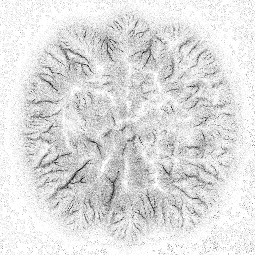
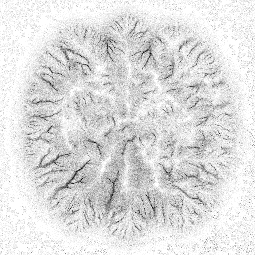
Modification OBJ broadleaf
Prise en charge plusieurs espèces d'arbres

diff --git a/Outerrain/Source/terrain.cpp b/Outerrain/Source/terrain.cpp
@@ -544,9 +544,12 @@ std::vector<Vector3> LayerTerrain2D::GetAllVertices() const
 
 /* VegetationTerrain */
 VegetationTerrain::VegetationTerrain(int nx, int ny, Vector2 bottomLeft, Vector2 topRight)
-	: Terrain2D(nx, ny, bottomLeft, topRight),
-	vegetationDensityField(nx, ny, bottomLeft, topRight)
+	: Terrain2D(nx, ny, bottomLeft, topRight)
 {
+	for (int k = 0; k < speciesNumber; k++)
+	{
+		vegetationDensityField.push_back(ScalarField2D(nx, ny, bottomLeft, topRight));
+	}
 }
 
 void VegetationTerrain::ComputeVegetationDensities()
@@ -555,15 +558,19 @@ void VegetationTerrain::ComputeVegetationDensities()
 	ScalarField2D wetnessField = WetnessField();
 	ScalarField2D streampowerField = StreamPowerField();
 	VegetationObject vegObj;
-	for (int i = 0; i < ny; i++)
+
+	for (int k = 0; k < speciesNumber; k++)
 	{
-		for (int j = 0; j < nx; j++)
+		for (int i = 0; i < ny; i++)
 		{
-			float height = heightField.Get(i, j);
-			float slope = slopeField.Get(i, j);
-			float wetness = wetnessField.Get(i, j);
-			float streampower = streampowerField.Get(i, j);
-			vegetationDensityField.Set(i, j, vegObj.ComputeDensityFactor(height, slope, wetness, streampower));
+			for (int j = 0; j < nx; j++)
+			{
+				float height = heightField.Get(i, j);
+				float slope = slopeField.Get(i, j);
+				float wetness = wetnessField.Get(i, j);
+				float streampower = streampowerField.Get(i, j);
+				vegetationDensityField[k].Set(i, j, vegObj.ComputeDensityFactor((Specie)k, height, slope, wetness, streampower));
+			}
 		}
 	}
 }
@@ -582,6 +589,7 @@ std::vector<GameObject*> VegetationTerrain::GetTreeObjects() const
 	int tileCountY = static_cast<int>(((topRight.y - bottomLeft.y) / tileSize + 1));
 
 	std::vector<GameObject*> vegObjects;
+
 	for (int i = 0; i < tileCountY; i++)
 	{
 		for (int j = 0; j < tileCountX; j++)
@@ -593,21 +601,26 @@ std::vector<GameObject*> VegetationTerrain::GetTreeObjects() const
 					+ Vector2(tileSize, 0) * static_cast<float>(j)
 					+ Vector2(0, tileSize) * static_cast<float>(i)
 					+ points[tile][x];
-				if (vegetationDensityField.IsInsideField(point) == true)
+
+				for (int k = 0; k < speciesNumber; k++)
 				{
-					float density = vegetationDensityField.GetValueBilinear(point);
-					float p = rand() / static_cast<float>(RAND_MAX);
-					if (p < density)
+					if (vegetationDensityField[k].IsInsideField(point) == true)
 					{
-						GameObject* vegObj = veg.GetGameObject();
-						Vector3 pos = Vector3(point.x, Height(point) + vegObj->GetScale().y / 2.0f, point.y);
-						vegObj->SetPosition(pos);
-						vegObjects.push_back(vegObj);
-						treeCount++;
+						float density = vegetationDensityField[k].GetValueBilinear(point);
+						float p = rand() / static_cast<float>(RAND_MAX);
+						if (p < density)
+						{
+							GameObject* vegObj = veg.GetGameObject((Specie)k);
+							Vector3 pos = Vector3(point.x, Height(point) + vegObj->GetScale().y / 2.0f, point.y);
+							vegObj->SetPosition(pos);
+							vegObjects.push_back(vegObj);
+							treeCount++;
+							break;
+						}
 					}
+					if (treeCount >= maxTreeCount)
+						return vegObjects;
 				}
-				if (treeCount >= maxTreeCount)
-					return vegObjects;
 			}
 		}
 	}
@@ -688,7 +701,7 @@ std::vector<std::vector<Vector2>> VegetationTerrain::GetRotatedRandomDistributio
 	return res;
 }
 
-ScalarField2D VegetationTerrain::VegetationDensityField() const
+ScalarField2D VegetationTerrain::VegetationDensityField(int k) const
 {
-	return vegetationDensityField;
+	return vegetationDensityField[k];
 }

diff --git a/Outerrain/Source/app.cpp b/Outerrain/Source/app.cpp
@@ -14,7 +14,8 @@ static GLuint draignageTexture;
 static GLuint wetnessTexture;
 static GLuint streampowerTexture;
 static GLuint accessibilityTexture;
-static GLuint vegetationDensityTexture;
+static GLuint vegetationPineDensityTexture;
+static GLuint vegetationBroadDensityTexture;
 
 static Vector2 minMaxSlope;
 static Vector2 minMaxDrainage;
@@ -125,7 +126,7 @@ int App::Render()
 	ImGui::Begin("Maps");
 	ImGui::SetNextWindowContentWidth(1000);
 	ImGui::BeginChild("", ImVec2(0, 190), false, ImGuiWindowFlags_HorizontalScrollbar);
-	ImGui::Columns(6);
+	ImGui::Columns(7);
 	ImGui::Text("Slope");
 	ImGui::Image(reinterpret_cast<ImTextureID>(slopeTexture), ImVec2(120, 120));
 	ImGui::Value("Black", minMaxSlope.x);
@@ -156,11 +157,17 @@ int App::Render()
 	ImGui::Value("White", minMaxAccessibility.y);
 	ImGui::SetColumnWidth(4, 135);
 	ImGui::NextColumn();
-	ImGui::Text("Plants Density");
-	ImGui::Image(reinterpret_cast<ImTextureID>(vegetationDensityTexture), ImVec2(120, 120));
+	ImGui::Text("Pine Density");
+	ImGui::Image(reinterpret_cast<ImTextureID>(vegetationPineDensityTexture), ImVec2(120, 120));
 	ImGui::Value("Black", minMaxVegetationDensity.x);
 	ImGui::Value("White", minMaxVegetationDensity.y);
 	ImGui::SetColumnWidth(5, 135);
+	ImGui::NextColumn();
+	ImGui::Text("Broadleaf Density");
+	ImGui::Image(reinterpret_cast<ImTextureID>(vegetationBroadDensityTexture), ImVec2(120, 120));
+	ImGui::Value("Black", minMaxVegetationDensity.x);
+	ImGui::Value("White", minMaxVegetationDensity.y);
+	ImGui::SetColumnWidth(6, 135);
 	ImGui::Columns(1);
 	ImGui::EndChild();
 	ImGui::End();
@@ -362,7 +369,12 @@ void App::CalculateAllMaps()
 	field.WriteImageGrayscale("Data/Maps/accessibility.png");
 	minMaxAccessibility = Vector2(field.MinValue(), field.MaxValue());
 
-	field = vegTerrain.VegetationDensityField();
+	field = vegTerrain.VegetationDensityField(0);
+	field.WriteImageGrayscale("Data/Maps/vegetationPineDensity.png");
+	minMaxVegetationDensity = Vector2(field.MinValue(), field.MaxValue());
+
+	field = vegTerrain.VegetationDensityField(0);
+	field.WriteImageGrayscale("Data/Maps/vegetationBroadDensity.png");
 	minMaxVegetationDensity = Vector2(field.MinValue(), field.MaxValue());
 
 	slopeTexture = ReadTexture(0, "Data/Maps/slope.png", GL_RGB);
@@ -370,5 +382,6 @@ void App::CalculateAllMaps()
 	wetnessTexture = ReadTexture(0, "Data/Maps/wetness.png", GL_RGB);
 	streampowerTexture = ReadTexture(0, "Data/Maps/streamPower.png", GL_RGB);
 	accessibilityTexture = ReadTexture(0, "Data/Maps/accessibility.png", GL_RGB);
-	vegetationDensityTexture = ReadTexture(0, "Data/Maps/vegetationDensity.png", GL_RGB);
+	vegetationPineDensityTexture = ReadTexture(0, "Data/Maps/vegetationPineDensity.png", GL_RGB);
+	vegetationBroadDensityTexture = ReadTexture(0, "Data/Maps/vegetationBroadDensity.png", GL_RGB);
 }

diff --git a/Outerrain/Source/vegetationObject.cpp b/Outerrain/Source/vegetationObject.cpp
@@ -8,40 +8,50 @@ VegetationObject::VegetationObject()
 
 }
 
-GameObject* VegetationObject::GetGameObject()
+GameObject* VegetationObject::GetGameObject(Specie s)
 {
 	Mesh* m = new Mesh(GL_TRIANGLES);
-	m->ReadMesh("Data/Objs/pineTree.obj");
+	if (s == PineTree)
+		m->ReadMesh("Data/Objs/pineTree.obj");
+	else
+		m->ReadMesh("Data/Objs/broadleaf.obj");
 	Shader shader;
 	shader.InitFromFile("Shaders/Diffuse.glsl");
 	m->SetShader(shader);
 	m->SetMaterial(Material(Color::Green(), 0));
 	GameObject* obj = new GameObject();
 	obj->AddComponent(m);
-	obj->SetScale(3.0, 3.0, 3.0);
 	return obj;
 }
 
 
 /* Density functions */
-float VegetationObject::HeightDensityFactor(float height)
+float VegetationObject::HeightDensityFactor(const Specie s, float height)
 {
+	if (s == PineTree)
+		return cos(height * 1.6f) * 0.5f + 0.5f;
 	return cos(height * 1.6f) * 0.5f + 0.5f;
 }
 
-float VegetationObject::SlopeDensityFactor(float slope)
+float VegetationObject::SlopeDensityFactor(const Specie s, float slope)
 {
+	if (s == PineTree)
+		return cos(slope * 0.05f) * 0.5f + 0.5f;
 	return cos(slope * 0.05f) * 0.5f + 0.5f;
 }
 
-float VegetationObject::WetnessDensityFactor(float wetness)
+float VegetationObject::WetnessDensityFactor(const Specie s, float wetness)
 {
+	if (s == PineTree)
+		return cos(wetness * 1.6f) * 0.5f + 0.5f;
 	return cos(wetness * 1.6f) * 0.5f + 0.5f;
 }
 
 
-float VegetationObject::StreamPowerDensityFactor(float streamPower)
+float VegetationObject::StreamPowerDensityFactor(const Specie s, float streamPower)
 {
+	if (s == PineTree)
+		return cos(streamPower * 1.6f) * 0.5f + 0.5f;
 	return cos(streamPower * 1.6f) * 0.5f + 0.5f;
 }
 void VegetationObject::SetRadius(float r)
@@ -54,9 +64,10 @@ float VegetationObject::GetRadius()
 	return radius;
 }
 
-float VegetationObject::ComputeDensityFactor(float height, float slope, float wetness, float streampower)
+float VegetationObject::ComputeDensityFactor(Specie s, float height, float slope, float wetness, float streampower)
 {
-	float min1 = std::min(HeightDensityFactor(height), SlopeDensityFactor(slope));
-	float min2 = std::min(WetnessDensityFactor(wetness), StreamPowerDensityFactor(streampower));
+
+	float min1 = std::min(HeightDensityFactor(s, height), SlopeDensityFactor(s, slope));
+	float min2 = std::min(WetnessDensityFactor(s, wetness), StreamPowerDensityFactor(s, streampower));
 	return std::min(min1, min2);
 }

diff --git a/Outerrain/Include/terrain.h b/Outerrain/Include/terrain.h
@@ -2,6 +2,7 @@
 #include <vector>
 #include "vec.h"
 #include "mesh.h"
+#include <vector>
 #include "valueField.h"
 
 /* Terrain2D */
@@ -77,13 +78,14 @@ public:
 class VegetationTerrain : public Terrain2D
 {
 protected:
-	ScalarField2D vegetationDensityField;
+	int speciesNumber = 2;
+	std::vector<ScalarField2D> vegetationDensityField;
 
 public:
 	VegetationTerrain() { }
 	VegetationTerrain(int, int, Vector2, Vector2);
 
-	ScalarField2D VegetationDensityField() const;
+	ScalarField2D VegetationDensityField(int k) const;
 
 	void ComputeVegetationDensities();
 
